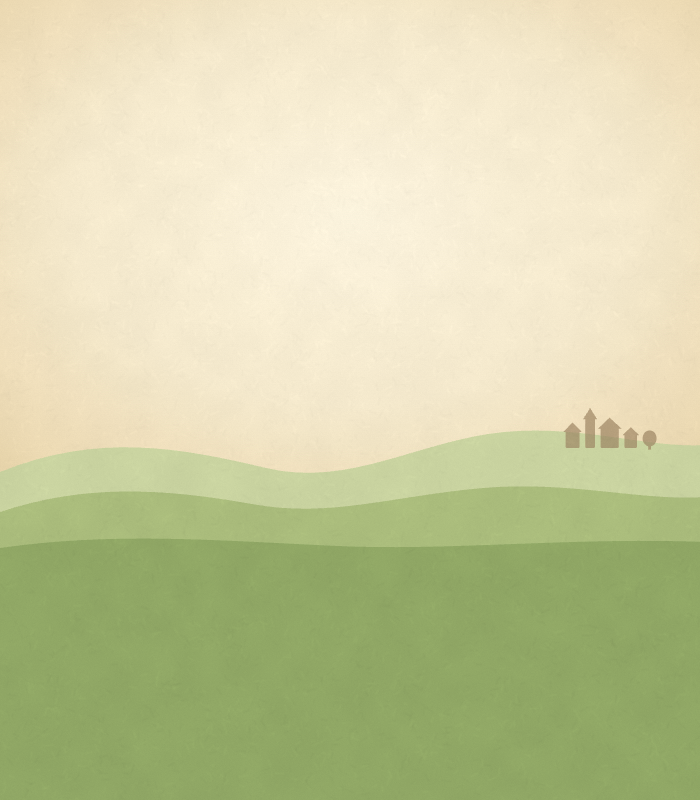
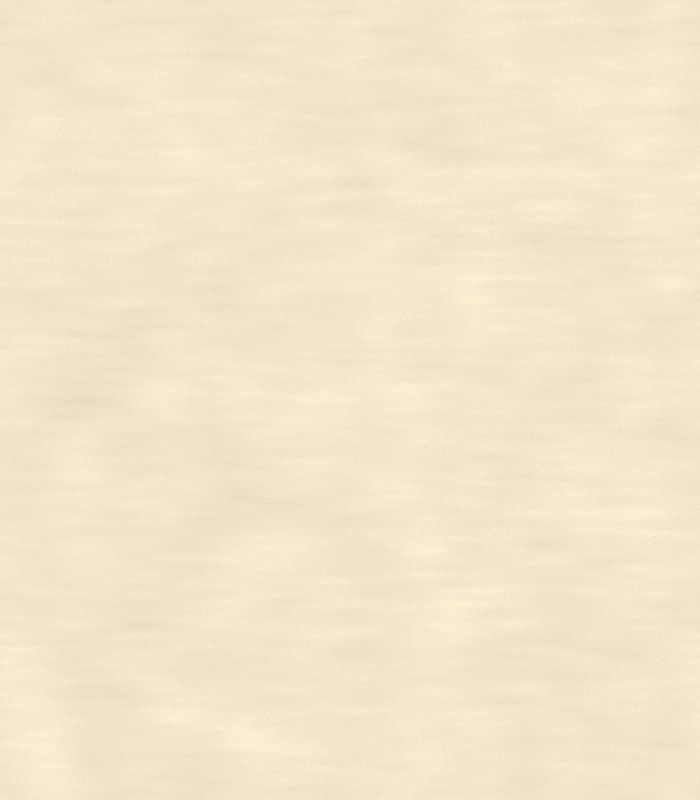
Mac dev build keeps its bundled mod in sync; tiling menu backdrop
- The Mac development build imports its bundled game data only once, so a mod
  bundled later (run_mac.sh KAM_MOD=...) never reached Documents. It now syncs
  Documents/Modding graphics with the bundle on every start: a build with a
  mod installs or refreshes it, a plain build removes it. Builds without
  bundled data (iPad, TestFlight) never touch the folder.
- Friendly Mod: the menu backdrop 5_0017 is a seamlessly tiling linen surface
  (tools/backdrop_tile.py). The engine tiles it, and the old sky-over-hills
  scene showed hard bands in large windows.

Claude-Session: https://claude.ai/code/session_014on1qRFDPYtTkCDCcgM2xG

diff --git a/mods/friendly/tools/backdrop_tile.py b/mods/friendly/tools/backdrop_tile.py
@@ -1,0 +1,50 @@
+"""Menu backdrop GUIMain 17 (5_0017.png) as a seamlessly tiling linen surface.
+
+The engine tiles this sprite to fill the screen, so a scene (sky over hills) shows hard bands in large windows.
+Noise is shaped in the frequency domain, which makes it periodic: the tile joins itself on every edge.
+The hills and village live in the card art (5_0018), so the backdrop stays a calm surface.
+Run: tools/.venv/bin/python tools/backdrop_tile.py
+"""
+from pathlib import Path
+
+import numpy as np
+from PIL import Image, PngImagePlugin
+
+OUT = Path(__file__).resolve().parent.parent / "Modding graphics" / "5_0017.png"
+W, H = 700, 800                      # original sprite size, kept
+BASE = np.array([243.0, 231.0, 203.0])  # mean of the old sky, so the card sits on the same colour
+MARK = "friendly-texture"               # texture_pass.py skips files carrying this chunk
+
+
+def periodic_noise(rng, shape, falloff, aniso=1.0):
+    """Gaussian noise low-passed in the frequency domain: periodic, zero mean, unit std."""
+    n = rng.standard_normal(shape)
+    fy = np.fft.fftfreq(shape[0])[:, None]
+    fx = np.fft.rfftfreq(shape[1])[None, :]
+    r = np.sqrt((fx * aniso) ** 2 + fy ** 2)
+    f = np.fft.irfft2(np.fft.rfft2(n) * np.exp(-(r / falloff) ** 2), s=shape)
+    return (f - f.mean()) / f.std()
+
+
+def main():
+    rng = np.random.default_rng(17)
+    mottle = periodic_noise(rng, (H, W), 0.012)            # soft cloudy unevenness of hand-made paper
+    fibres = periodic_noise(rng, (H, W), 0.08, aniso=6.0)  # short horizontal linen fibres
+    grain = periodic_noise(rng, (H, W), 0.45)              # fine tooth
+    lum = 1.0 + 0.009 * mottle + 0.007 * fibres + 0.006 * grain
+    rgb = np.clip(BASE[None, None, :] * lum[..., None], 0, 255).astype(np.uint8)
+    img = np.dstack([rgb, np.full((H, W), 255, np.uint8)])
+
+    # The tile must join itself: compare each edge with the opposite one against a typical neighbour step
+    a = img[..., :3].astype(int)
+    step = np.abs(np.diff(a, axis=0)).mean()
+    assert np.abs(a[0] - a[-1]).mean() < 2 * step and np.abs(a[:, 0] - a[:, -1]).mean() < 2 * step
+
+    info = PngImagePlugin.PngInfo()
+    info.add_text(MARK, "1")
+    Image.fromarray(img, "RGBA").save(OUT, pnginfo=info)
+    print(f"wrote {OUT} {W}x{H}, luminance spread {lum.min():.3f}..{lum.max():.3f}")
+
+
+if __name__ == "__main__":
+    main()

diff --git a/ios/host/main.m b/ios/host/main.m
@@ -645,7 +645,9 @@ static void update_pause(void) {
   if (getenv("KAM_DATA_DIR")) _docs = [_docs stringByAppendingPathComponent:@(getenv("KAM_DATA_DIR"))];
   [NSFileManager.defaultManager createDirectoryAtPath:_docs withIntermediateDirectories:YES attributes:nil error:nil];
   // The Mac development build carries the game data in the app bundle (ios/run_mac.sh); first start copies it out
-  [self importFrom:[NSBundle.mainBundle.resourcePath stringByAppendingPathComponent:@"gamedata"]];
+  NSString *bundled = [NSBundle.mainBundle.resourcePath stringByAppendingPathComponent:@"gamedata"];
+  [self importFrom:bundled];
+  [self syncBundledMod:bundled];
   [self startGame];
 }
 
@@ -658,6 +660,19 @@ static NSArray<NSString *> *data_folders(void) {
 
 // Copies the game's data folders from a KaM Remake installation into Documents (names matched without regard to
 // case). Returns nil, or what went wrong
+// Mac development build only (its bundle carries the game data): the import above runs once, so a mod bundled later
+// (run_mac.sh KAM_MOD=...) would never arrive. Keep Documents/Modding graphics equal to the bundle's on every start:
+// a build with a mod installs or refreshes it, a build without one removes it. Builds without bundled data (iPad,
+// TestFlight) never touch the folder, so a mod imported by the player stays.
+- (void)syncBundledMod:(NSString *)bundled {
+  NSFileManager *fm = NSFileManager.defaultManager;
+  if (![fm fileExistsAtPath:[bundled stringByAppendingPathComponent:@"data"]]) return;
+  NSString *from = [bundled stringByAppendingPathComponent:@"Modding graphics"];
+  NSString *to = [_docs stringByAppendingPathComponent:@"Modding graphics"];
+  [fm removeItemAtPath:to error:nil];
+  if ([fm fileExistsAtPath:from]) [fm copyItemAtPath:from toPath:to error:nil];
+}
+
 - (NSString *)importFrom:(NSString *)source {
   NSFileManager *fm = NSFileManager.defaultManager;
   NSArray<NSString *> *found = [fm contentsOfDirectoryAtPath:source error:nil] ?: @[];

diff --git a/mods/friendly/README.md b/mods/friendly/README.md
@@ -99,10 +99,13 @@ Run the scripts with `tools/.venv/bin/python` (Pillow). To set up the venv: `uv 
 - `tools/clock_frames.py`: after 4_0556.png changes, redraws frames 557-571 with the hand turned 22.5 degrees each.
 - `tools/calm_planks.py`: after 404, 407 or 554 is re-exported, repaints their planks as plain boards with soft seams
   (keeps the vine strip, minimap frame, sign and ropes). Safe to run twice. Run `texture_pass.py` after it.
-- `tools/texture_pass.py`: adds the texture to 402, 404, 407, 409, 554, 5_7, 5_9, 5_17 and 5_18 in place, with fixed
+- `tools/texture_pass.py`: adds the texture to 402, 404, 407, 409, 554, 5_7, 5_9 and 5_18 (5_17 comes from `backdrop_tile.py`) in place, with fixed
   seeds, and prints each surface's luminance before and after (`--check` only reports). A textured PNG carries the
   text chunk `friendly-texture`, so the script skips it on a second run; run it after every new Paper export of those
   sprites (exports come back flat).
+- `tools/backdrop_tile.py`: draws the menu backdrop 5_17 as a seamlessly tiling linen surface. The engine tiles
+  this sprite to fill the screen, so a scene shows hard bands in large windows; the hills live in the card 5_18.
+  It writes the `friendly-texture` chunk, so `texture_pass.py` leaves it alone.
 - `tools/locked_banner.py`: draws 5_10 (locked mission) from the unlocked banner 5_11 in `_originals/`: same
   silhouette, linen and walnut at 58% opacity, a small padlock. `_originals/` is not in git: export 5_11 first with
   `tools/rxx_export.py <game>/data/Sprites/GUIMain.rxx 5 _originals 11`.
